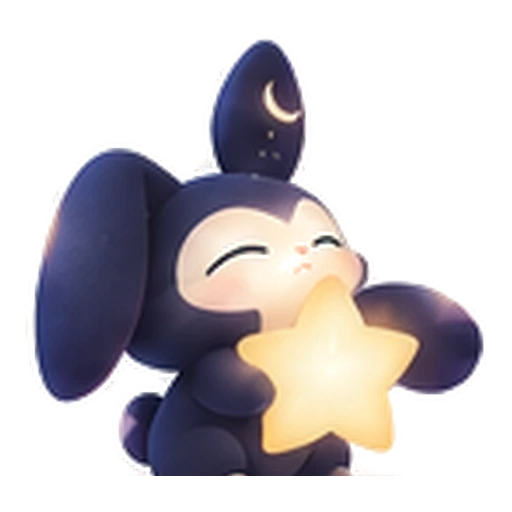
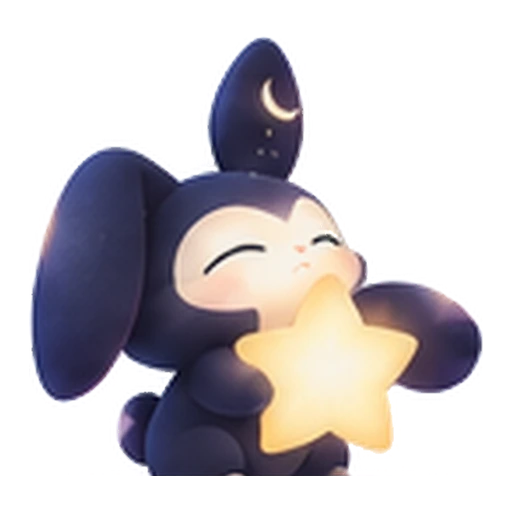
CEL-181: go quang trang quanh linh vat o nen toi — sua tu tep anh
lam-sach-anh-celes.py them hai buoc truoc khu ria:
- 1b tach lai matte dai 12px sat mep theo nen kem #F6F1E8
  (mau that lay tu pixel loi gan nhat, san xa than lay tong bong)
- 1c va lo alpha sau trong than (mat/bung kem bi mat na an mat)
Sinh lai 7 tep public/celes/*.webp tu PNG goc: van 512x512, cao 86%,
32-41KB. Pixel sang sat mep giam 76-95%. Bong van chi o CSS.

diff --git a/scripts/lam-sach-anh-celes.py b/scripts/lam-sach-anh-celes.py
@@ -79,6 +79,100 @@ def _bo_bong(alpha, rgb):
     return np.where(bong & (alpha > 0), 0.0, alpha)
 
 
+# Nen tham chieu cua buoc tach matte va tong mau bong (vung san xa than).
+MATTE_NEN = np.array([246.0, 241.0, 232.0])   # #F6F1E8
+TONG_BONG = np.array([22.0, 16.0, 40.0])
+RIM = 12
+
+
+def _tach_lai_matte(alpha, rgb):
+    """Tach lai mau that va alpha o dai ria, so voi nen kem MATTE_NEN.
+
+    Vi sao: mat na tach nhan vat cat long, de lai mot dai matte sang (trang /
+    lavender nhat) 2-9px quanh mep va mot vet san duoi chan. Tren nen kem no hoa
+    vao nen nen ban sang trong dung; tren nen toi no thanh vien cham trang. Khong
+    sua duoc bang CSS, va KHONG duoc che bang bong.
+
+    Cach lam: coi moi pixel ria la tron giua mau that F (lay tu pixel loi gan
+    nhat) va nen B. Tu C = F*a + B*(1-a) giai ra a, roi C' = B - (B-C)/a.
+    Ghep C' len B voi alpha a la ra lai dung C, nen ban sang gan nhu khong doi;
+    tren nen toi phan "nen" da duoc tach ra khoi pixel nen het vien.
+
+    Tra ve (alpha, rgb, sel): sel la vung da ghi de, de buoc khu ria sau bo qua.
+    """
+    H = alpha.shape[0]
+    k = H / 512.0
+    A = alpha
+    B = MATTE_NEN
+    C = rgb
+    co = A > 0
+
+    mn = C.min(axis=2); mx = C.max(axis=2)
+    bgl = (mn >= 150) & ((mx - mn) <= 30) & co
+    dist = ndimage.distance_transform_edt(co)
+
+    hang = np.where(co.any(axis=1))[0]
+    san = np.zeros_like(co)
+    if hang.size:
+        y0, y1 = hang.min(), hang.max()
+        san[int(y1 - 0.12 * (y1 - y0 + 1)):, :] = True
+
+    allow = bgl & ((dist <= RIM * k) | san)
+    nhan, so = ndimage.label(allow)
+    cham_mep = np.unique(nhan[(dist <= 2) & allow])
+    cham_mep = cham_mep[cham_mep > 0]
+    sel = np.isin(nhan, cham_mep) & allow
+    sel |= co & (dist <= 3 * k)
+
+    core = ~sel & (A >= 250 / 255.0) & ~bgl
+    if not core.any():
+        return alpha, rgb, np.zeros_like(co)
+    d_core, (iy, ix) = ndimage.distance_transform_edt(~core, return_indices=True)
+    F = C[iy, ix].astype(float)
+    F[sel & san & (d_core > 2)] = TONG_BONG
+
+    D = B - C
+    BF = B - F
+    hop_le = BF > 8
+    ti = np.where(hop_le, D / np.where(hop_le, BF, 1.0), 0.0)
+    a = np.clip(ti.max(axis=2), 0.0, 1.0)
+    a = np.ceil(a * 255.0) / 255.0
+
+    C_moi = np.clip(B - D / np.maximum(a, 1e-6)[:, :, None], 0, 255)
+    A_moi = A * a
+
+    out_a = alpha.copy(); out_rgb = rgb.copy()
+    out_a[sel] = A_moi[sel]
+    out_rgb[sel] = C_moi[sel]
+    out_rgb[sel & (out_a <= 0)] = 0
+    return out_a, out_rgb, sel
+
+
+def _va_lo(alpha_goc, rgb_goc, alpha, rgb, sel):
+    """Lam dac lai pixel nam SAU trong than ma alpha < 1.
+
+    Vi sao: mat na tach theo nen kem nen an ca long kem that o mat va bung
+    (do 02/10/2026: ~7000 pixel ben trong than co alpha < 0.9 o moi state).
+    Tren nen kem khong thay; tren nen toi mat Celes loang xam vi nen lot qua.
+
+    Pixel cach mep than (da lap lo) qua RIM*k thi khong the la nen that — ghep
+    ban GOC len MATTE_NEN roi dat alpha = 1. Nen kem vi the khong doi mot pixel
+    nao. Dai RIM*k sat mep de nguyen cho buoc 1b: rac matte day toi 9px, lam
+    dac no la ve lai dung cai vien kem vua go.
+    """
+    k = alpha.shape[0] / 512.0
+    than = ndimage.binary_fill_holes(alpha_goc > 0.5)
+    sau = ndimage.distance_transform_edt(than) > RIM * k
+    lo = sau & (alpha_goc < 1.0)
+    a3 = alpha_goc[:, :, None]
+    ghep = rgb_goc * a3 + MATTE_NEN * (1 - a3)
+    out_a = alpha.copy()
+    out_rgb = rgb.copy()
+    out_a[lo] = 1.0
+    out_rgb[lo] = ghep[lo]
+    return out_a, out_rgb, sel | lo
+
+
 def lam_sach(duong_vao, duong_ra):
     im = Image.open(duong_vao).convert('RGBA')
     a = np.array(im).astype(float)
@@ -88,12 +182,21 @@ def lam_sach(duong_vao, duong_ra):
     # --- 1. Bo bong nen nuong vao anh ---
     alpha_moi = _bo_bong(alpha, rgb)
 
+    # --- 1b. Tach lai matte o ria (halo trang tren nen toi) ---
+    alpha_goc, rgb_goc = alpha_moi, rgb
+    alpha_moi, rgb, sel = _tach_lai_matte(alpha_moi, rgb)
+
+    # --- 1c. Va lo alpha trong than (mat / bung kem bi mat na an mat) ---
+    alpha_moi, rgb, sel = _va_lo(alpha_goc, rgb_goc, alpha_moi, rgb, sel)
+
     # --- 2. Khu nhiem mau nen o ria (un-premultiply) ---
     # observed = fg*alpha + NEN*(1-alpha)  =>  fg = (observed - NEN*(1-alpha)) / alpha
     # Chi ap trong dai alpha trung binh: alpha rat thap thi chia cho so nho,
     # sai so bi khuech dai thanh vien den ban.
+    # Bo qua vung `sel`: buoc 1b da tach mau that ra roi, khu them lan nua la
+    # tru nen hai lan.
     out_rgb = rgb.copy()
-    ap = (alpha_moi > 0.15) & (alpha_moi < 0.95)
+    ap = (alpha_moi > 0.15) & (alpha_moi < 0.95) & ~sel
     al3 = alpha_moi[:, :, None]
     goc = (out_rgb - NEN * (1 - al3)) / np.maximum(al3, 1e-6)
     out_rgb[ap] = np.clip(goc[ap], 0, 255)
